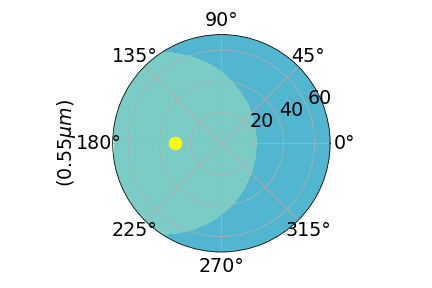
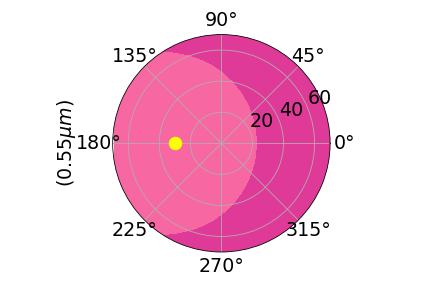
Plots

Changed region(s): [[0.2407, 0.0938, 0.7824, 0.875]]

diff --git a/Code/GRASP/simulateHemisphere_ReedEdit2.py b/Code/GRASP/simulateHemisphere_ReedEdit2.py
@@ -7,7 +7,10 @@ import datetime as dt
 
 # Path to the YAML file you want to use for the aerosol and surface definition
 #fwdModelYAMLpath = '/home/cdeleon/ULTRASIP/Code/GRASP/SettingFiles/settings_BiomassBurning.yml'
-fwdModelYAMLpath = '/home/cdeleon/ULTRASIP/Code/GRASP/SettingFiles/settings_Dust_model1.yml'
+#fwdModelYAMLpath = '/home/cdeleon/ULTRASIP/Code/GRASP/SettingFiles/settings_Dust_model1.yml'
+#fwdModelYAMLpath = '/home/cdeleon/ULTRASIP/Code/GRASP/SettingFiles/settings_WeaklyAbsorbing1101.yml'
+fwdModelYAMLpath = '/home/cdeleon/ULTRASIP/Code/GRASP/SettingFiles/settings_BiomassBurning2101.yml'
+
 # paths to your GRASP binary and kernels (replace everything up to grasp_open with the path to your GRASP repository)
 binPathGRASP = '/home/cdeleon/grasp/build/bin/grasp'
 krnlPathGRASP = '/home/cdeleon/grasp/src/retrieval/internal_files'
@@ -84,7 +87,7 @@ for i in range(2):
                # clrMax = data[-1].max(100)
             #clrMap = clrMapReg
             name = str(l)  
-            cmap = 'GnBu'  
+            cmap = 'RdPu'  
         else: # this is a difference plot      
 #             if i==1:
             data.append(data[l-Nwvl+1] - data[0])
@@ -106,17 +109,19 @@ for i in range(2):
         ticks = np.linspace(clrMin, clrMax, 7, endpoint=True)
         data2D = data[-1].reshape(Nazimth, Nvza)
         dataFullHemisphere = np.vstack([data2D, np.flipud(data2D)]) # mirror symmetric about principle plane
-        c = plt.contourf(theta, r, dataFullHemisphere, v, cmap='RdBu')#cmap='tab20c')
+        c = plt.contourf(theta, r, dataFullHemisphere, v, cmap='RdPu')#cmap='tab20c')
         #plt.title(titlestr)
         plt.ylabel(wvStr, labelpad=35)
         plt.plot(np.pi, sza, '.',  color=[1,1,0], markersize=25)
+        plt.savefig(f'/home/cdeleon/ULTRASIP/Code/GRASP/Plots/NEW2{name}bb2101{titlestr}.png')
+
 #ax.set_ylim([0, r.max()])
         #if i==0: 
 #ax.set_ylabel(labels[-1], labelpad=80)
-
-        cb = plt.colorbar(c, orientation='horizontal', ticks=ticks,pad=0.9)
+    
+        cb = plt.colorbar(c, orientation='horizontal', ticks=ticks,pad=0.3)
         #plt.savefig(f'/home/cdeleon/ULTRASIP/Code/GRASP/Plots/NEW2{name}d1{titlestr}.png')
-        plt.savefig('/home/cdeleon/ULTRASIP/Code/GRASP/Plots/RdBucolorbar.png')
+        #plt.savefig(f'/home/cdeleon/ULTRASIP/Code/GRASP/Plots/{cmap}colorbar.png')
 
 #cb = plt.colorbar(c, orientation='horizontal', ax=ax[l,i], ticks=ticks)
 #cb = plt.colorbar(c, orientation='horizontal', ax=ax[l,i], ticks=ticks)
